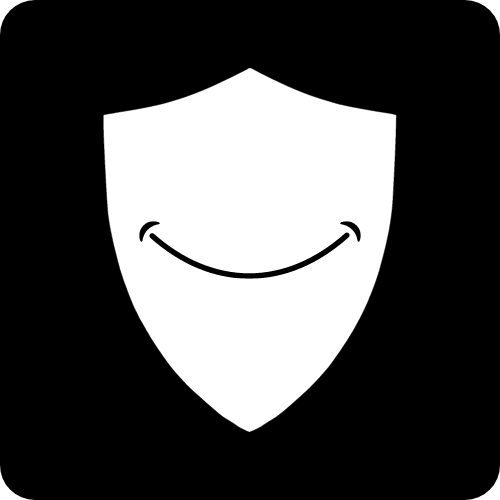
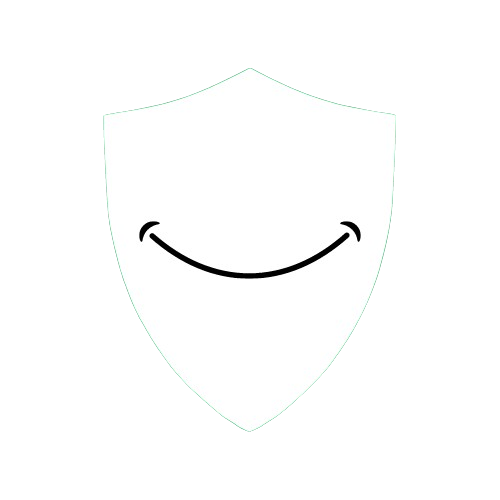
🎨 Header transparent and other UI changes

diff --git a/ui/src/components/header.tsx b/ui/src/components/header.tsx
@@ -1,3 +1,4 @@
+import { ChevronDownIcon, GitHubLogoIcon } from '@radix-ui/react-icons'
 import Image from 'next/image'
 import { useRouter } from 'next/navigation'
 import { useEffect, useState } from 'react'
@@ -11,7 +12,6 @@ import {
   DropdownMenuSeparator,
   DropdownMenuTrigger
 } from './ui/dropdown-menu'
-import GitHubButton from 'react-github-btn'
 import { Input } from './ui/input'
 import { Label } from './ui/label'
 import { Popover, PopoverContent, PopoverTrigger } from './ui/popover'
@@ -72,7 +72,7 @@ export const Header = ({ authorised, statusLoaded, name, email }) => {
   }
 
   return (
-    <nav className="bg-white border-gray-200 dark:bg-gray-900 z-10">
+    <nav className="bg-transparent border-gray-200 dark:bg-gray-900 z-10">
       <div className="flex flex-wrap items-center justify-between md:mx-10 p-3 sm:mx-auto">
         <Button
           onClick={() => router.push('/')}
@@ -85,23 +85,23 @@ export const Header = ({ authorised, statusLoaded, name, email }) => {
             width={32}
             height={32}
           />
-          <span className="hidden sm:block self-center text-2xl font-semibold whitespace-nowrap dark:text-white">
+          <span className="text-white hidden sm:block self-center text-2xl font-semibold whitespace-nowrap dark:text-white">
             ByteShare
           </span>
         </Button>
         <div className="flex md:order-2 space-x-2 md:space-x-0 rtl:space-x-reverse">
           {statusLoaded ? (
-            <span className="text-black hidden lg:flex focus:ring-4 focus:outline-none focus:ring-gray-300 font-medium rounded-lg text-sm px-2 mx-2 py-1 text-center">
-              <GitHubButton
-                href="https://github.com/innovencelabs/ByteShare"
-                data-icon="octicon-star"
-                data-size="large"
-                data-show-count="false"
-                aria-label="Star innovencelabs/byteshare on GitHub"
-              >
-                Star
-              </GitHubButton>
-            </span>
+            <Button
+              variant="ghost"
+              onClick={() => {
+                const githubURL = `https://github.com/innovencelabs/byteshare`
+                window.open(githubURL, '_blank')
+              }
+              }
+              className="text-white hidden lg:flex focus:ring-4 focus:outline-none focus:ring-gray-300 font-medium rounded-lg text-sm px-2 mx-2 py-1 text-center"
+            >
+              <GitHubLogoIcon />
+            </Button>
           ) : (
             <></>
           )}
@@ -116,8 +116,11 @@ export const Header = ({ authorised, statusLoaded, name, email }) => {
           ) : statusLoaded ? (
             <DropdownMenu>
               <DropdownMenuTrigger asChild>
-                <Button variant="outline" className="text-xs md:text-sm">
-                  {getFormattedName(name)}
+                <Button
+                  variant="ghost"
+                  className="text-white text-xs md:text-sm"
+                >
+                  {getFormattedName(name)} <ChevronDownIcon />
                 </Button>
               </DropdownMenuTrigger>
               <DropdownMenuContent className="w-56">
@@ -174,13 +177,13 @@ export const Header = ({ authorised, statusLoaded, name, email }) => {
           {!statusLoaded ? (
             <></>
           ) : (
-            <ul className="flex flex-col font-medium p-4 md:p-0 mt-4 border border-gray-100 rounded-lg bg-gray-50 md:space-x-8 rtl:space-x-reverse md:flex-row md:mt-0 md:border-0 md:bg-white dark:bg-gray-800 md:dark:bg-gray-900 dark:border-gray-700">
+            <ul className="flex flex-col font-medium p-4 md:p-0 mt-4 border sm:rounded-md bg-slate-100 border-gray-100 rounded-lg md:bg-transparent md:space-x-8 rtl:space-x-reverse md:flex-row md:mt-0 md:border-0 dark:bg-gray-800 md:dark:bg-gray-900 dark:border-gray-700">
               <li>
                 <Popover open={popoverOpen} onOpenChange={setPopoverOpen}>
                   <PopoverTrigger asChild>
                     <Button
                       variant="ghost"
-                      className="block py-2 px-3 md:p-0 text-gray-900 rounded hover:bg-gray-100 md:hover:bg-transparent md:hover:text-blue-700 md:dark:hover:text-blue-500 dark:text-white dark:hover:bg-gray-700 dark:hover:text-white md:dark:hover:bg-transparent dark:border-gray-700"
+                      className="block py-2 px-3 md:p-0 text-black  md:text-white rounded hover:bg-gray-100 md:hover:bg-transparent md:hover:text-slate-300 md:dark:hover:text-blue-500 dark:text-white dark:hover:bg-gray-700 dark:hover:text-white md:dark:hover:bg-transparent dark:border-gray-700"
                     >
                       Feedback
                     </Button>
@@ -235,7 +238,7 @@ export const Header = ({ authorised, statusLoaded, name, email }) => {
                 <Button
                   variant="ghost"
                   onClick={() => router.push('/help')}
-                  className="block py-2 px-3 md:p-0 text-gray-900 rounded hover:bg-gray-100 md:hover:bg-transparent md:hover:text-blue-700 md:dark:hover:text-blue-500 dark:text-white dark:hover:bg-gray-700 dark:hover:text-white md:dark:hover:bg-transparent dark:border-gray-700"
+                  className="block py-2 px-3 md:p-0 text-black  md:text-white rounded hover:bg-gray-100 md:hover:bg-transparent md:hover:text-slate-300 md:dark:hover:text-blue-500 dark:text-white dark:hover:bg-gray-700 dark:hover:text-white md:dark:hover:bg-transparent dark:border-gray-700"
                 >
                   Help
                 </Button>
@@ -245,7 +248,7 @@ export const Header = ({ authorised, statusLoaded, name, email }) => {
                   <Button
                     variant="ghost"
                     onClick={() => router.push('/history')}
-                    className="block py-2 px-3 md:p-0 text-gray-900 rounded hover:bg-gray-100 md:hover:bg-transparent md:hover:text-blue-700 md:dark:hover:text-blue-500 dark:text-white dark:hover:bg-gray-700 dark:hover:text-white md:dark:hover:bg-transparent dark:border-gray-700"
+                    className="block py-2 px-3 md:p-0 text-black  md:text-white rounded hover:bg-gray-100 md:hover:bg-transparent md:hover:text-slate-300 md:dark:hover:text-blue-500 dark:text-white dark:hover:bg-gray-700 dark:hover:text-white md:dark:hover:bg-transparent dark:border-gray-700"
                   >
                     History
                   </Button>
@@ -272,7 +275,7 @@ export const Header = ({ authorised, statusLoaded, name, email }) => {
                   <Button
                     variant="ghost"
                     onClick={() => router.push('/upgrade')}
-                    className="block py-2 px-3 md:p-0 text-gray-900 rounded hover:bg-gray-100 md:hover:bg-transparent md:hover:text-blue-700 md:dark:hover:text-blue-500 dark:text-white dark:hover:bg-gray-700 dark:hover:text-white md:dark:hover:bg-transparent dark:border-gray-700"
+                    className="block py-2 px-3 md:p-0 text-black  md:text-white rounded hover:bg-gray-100 md:hover:bg-transparent md:hover:text-slate-300 md:dark:hover:text-blue-500 dark:text-white dark:hover:bg-gray-700 dark:hover:text-white md:dark:hover:bg-transparent dark:border-gray-700"
                   >
                     Pricing
                   </Button>

diff --git a/ui/src/app/(pages)/page.tsx b/ui/src/app/(pages)/page.tsx
@@ -490,8 +490,10 @@ export default function Home() {
                 >
                   Experience seamless file sharing with ByteShare.
                   <br />
-                  Send files effortlessly,{' '}
-                  <Highlight className="text-black dark:text-white">
+                  <span className="block sm:inline-block mr-1">
+                    Send files effortlessly,{' '}
+                  </span>
+                  <Highlight className="text-black dark:text-white block sm:inline-block">
                     keeping data safe and manageable.
                   </Highlight>
                 </motion.h1>

diff --git a/ui/src/app/(pages)/(protected)/history/page.tsx b/ui/src/app/(pages)/(protected)/history/page.tsx
@@ -323,13 +323,13 @@ function HistoryPage() {
         <TooltipProvider>
           <Tooltip>
             <TooltipTrigger asChild>
-              <div className="cursor-pointer">
+              <div className="">
                 {row.original.title.length > 30
                   ? `${row.original.title.slice(0, 30)}...`
                   : row.original.title}
               </div>
             </TooltipTrigger>
-            <TooltipContent className="text-white">
+            <TooltipContent className="bg-blue-800 text-white">
               <p>{row.original.title}</p>
             </TooltipContent>
           </Tooltip>
